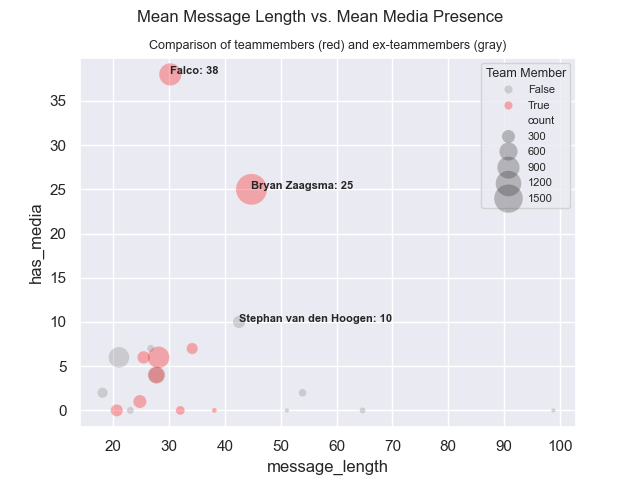
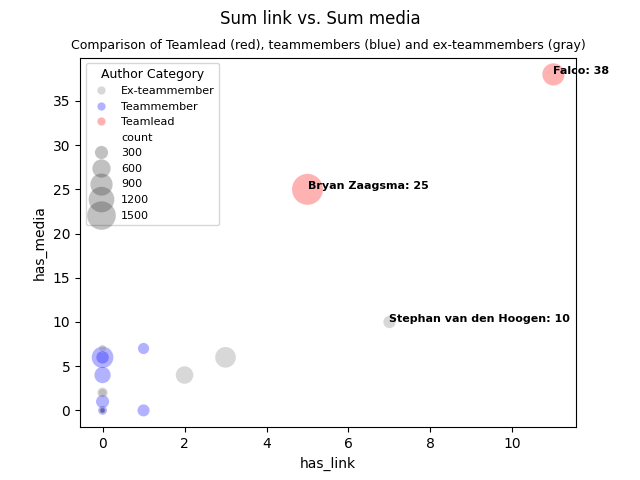
Last update - relations

diff --git a/src/visualisations.py b/src/visualisations.py
@@ -290,6 +290,16 @@ def distributie_plot_message_length(df):
     # Show the plots
     plt.show()
 
+def categorize_author(author):
+    team_leads = ['Falco', 'Bryan Zaagsma']
+    team_members = ['Belly Zaalvoetbal', 'Jeroen Huter', 'Jeroen Zaaltvoetbal', 'Kay Jacobs', 'Kevin Zaagsma', 'Romano Mundo', 'Ruben Zaalvoetbal', 'Tom Danko', 'Casper Guit']
+    if author in team_leads:
+        return 'Teamlead'
+    elif author in team_members:
+        return 'Teammember'
+    else:
+        return 'Ex-teammember'
+
 def relations_mean_message_vs_media(df):
     """
     Plot mean message length vs. mean media presence for authors in DataFrame df.
@@ -299,39 +309,34 @@ def relations_mean_message_vs_media(df):
     df['has_media'] = df['message'].str.contains(r'<Media weggelaten>', case=False, regex=True)
 
     # Create a column to identify team members
-    team_members = [
-        'Belly Zaalvoetbal', 'Bryan Zaagsma', 'Casper Guit', 'Falco',
-        'Jeroen Huter', 'Jeroen Zaaltvoetbal', 'Kay Jacobs', 'Kevin Zaagsma',
-        'Romano Mundo', 'Ruben Zaalvoetbal', 'Tom Danko'
-    ]
-    df['is_team_member'] = df['author'].isin(team_members)
+    df['author_category'] = df['author'].apply(categorize_author)
 
     # Group by "author" and aggregate the necessary columns
     p = df.groupby(["author"]).agg({
-        "message_length": "mean",
+        "has_link": "sum",
         "has_media": "sum",
         "author": "count",
-        "is_team_member": "first",  # Take the first value since it's the same for each author
+        "author_category": "first",  # Take the first value since it's the same for each author
     }).rename(columns={"author": "count"})
 
     # Filter rows with count greater than 10
     p = p[p["count"] > 10]
 
     # Create scatterplot
-    ax = sns.scatterplot(data=p, x="message_length", y="has_media", size="count", sizes=(10, 500), alpha=0.3, hue="is_team_member", palette={False: 'gray', True: 'red'})
+    ax = sns.scatterplot(data=p, x="has_link", y="has_media", size="count", sizes=(10, 500), alpha=0.3, hue="author_category", palette={'Teamlead': 'red', 'Teammember': 'blue', 'Ex-teammember': 'gray'})
 
     # Add title and subtitle with smaller font size
-    plt.title("Comparison of teammembers (red) and ex-teammembers (gray)", fontsize=9)
-    plt.suptitle("Mean Message Length vs. Mean Media Presence", fontsize=12)
+    plt.title("Comparison of Teamlead (red), teammembers (blue) and ex-teammembers (gray)", fontsize=9)
+    plt.suptitle("Sum link vs. Sum media", fontsize=12)
 
     # Show names of the top 3 authors with the highest sum of has_media
     top_3_has_media = p.nlargest(3, 'has_media')['has_media']
     for i, (author, sum_has_media) in enumerate(top_3_has_media.items()):
-        plt.text(p.loc[author, "message_length"], p.loc[author, "has_media"], f"{author}: {sum_has_media}", fontsize=8, fontweight='bold')
+        plt.text(p.loc[author, "has_link"], p.loc[author, "has_media"], f"{author}: {sum_has_media}", fontsize=8, fontweight='bold')
 
     # Customizing legend
     handles, labels = ax.get_legend_handles_labels()
-    ax.legend(handles=handles[1:], labels=labels[1:], title="Team Member", fontsize=8, title_fontsize=9)
+    ax.legend(handles=handles[1:], labels=labels[1:], title="Author Category", fontsize=8, title_fontsize=9)
 
     # Set a formatter for the legend to use a decimal separator
     ax.yaxis.set_major_formatter(ticker.StrMethodFormatter("{x:,.0f}"))
@@ -351,9 +356,9 @@ df = pd.read_parquet(datafile)
 # print(df.dtypes)
 
 
-category_weekday_polar_plot(df)
-categorie_common_words(df)
-time_wins_mentions(df, interval='year')
-time_bbq_mentions(df, save_path=r"C:/Users/a427617/Documents/Master Data science/Blok 3 - Data mining/Data-Mining---2024/img/time_bbq_vermeldingen.png")
-distributie_plot_message_length(df)
+# category_weekday_polar_plot(df)
+# categorie_common_words(df)
+# time_wins_mentions(df, interval='year')
+# time_bbq_mentions(df, save_path=r"C:/Users/a427617/Documents/Master Data science/Blok 3 - Data mining/Data-Mining---2024/img/time_bbq_vermeldingen.png")
+# distributie_plot_message_length(df)
 relations_mean_message_vs_media(df)
